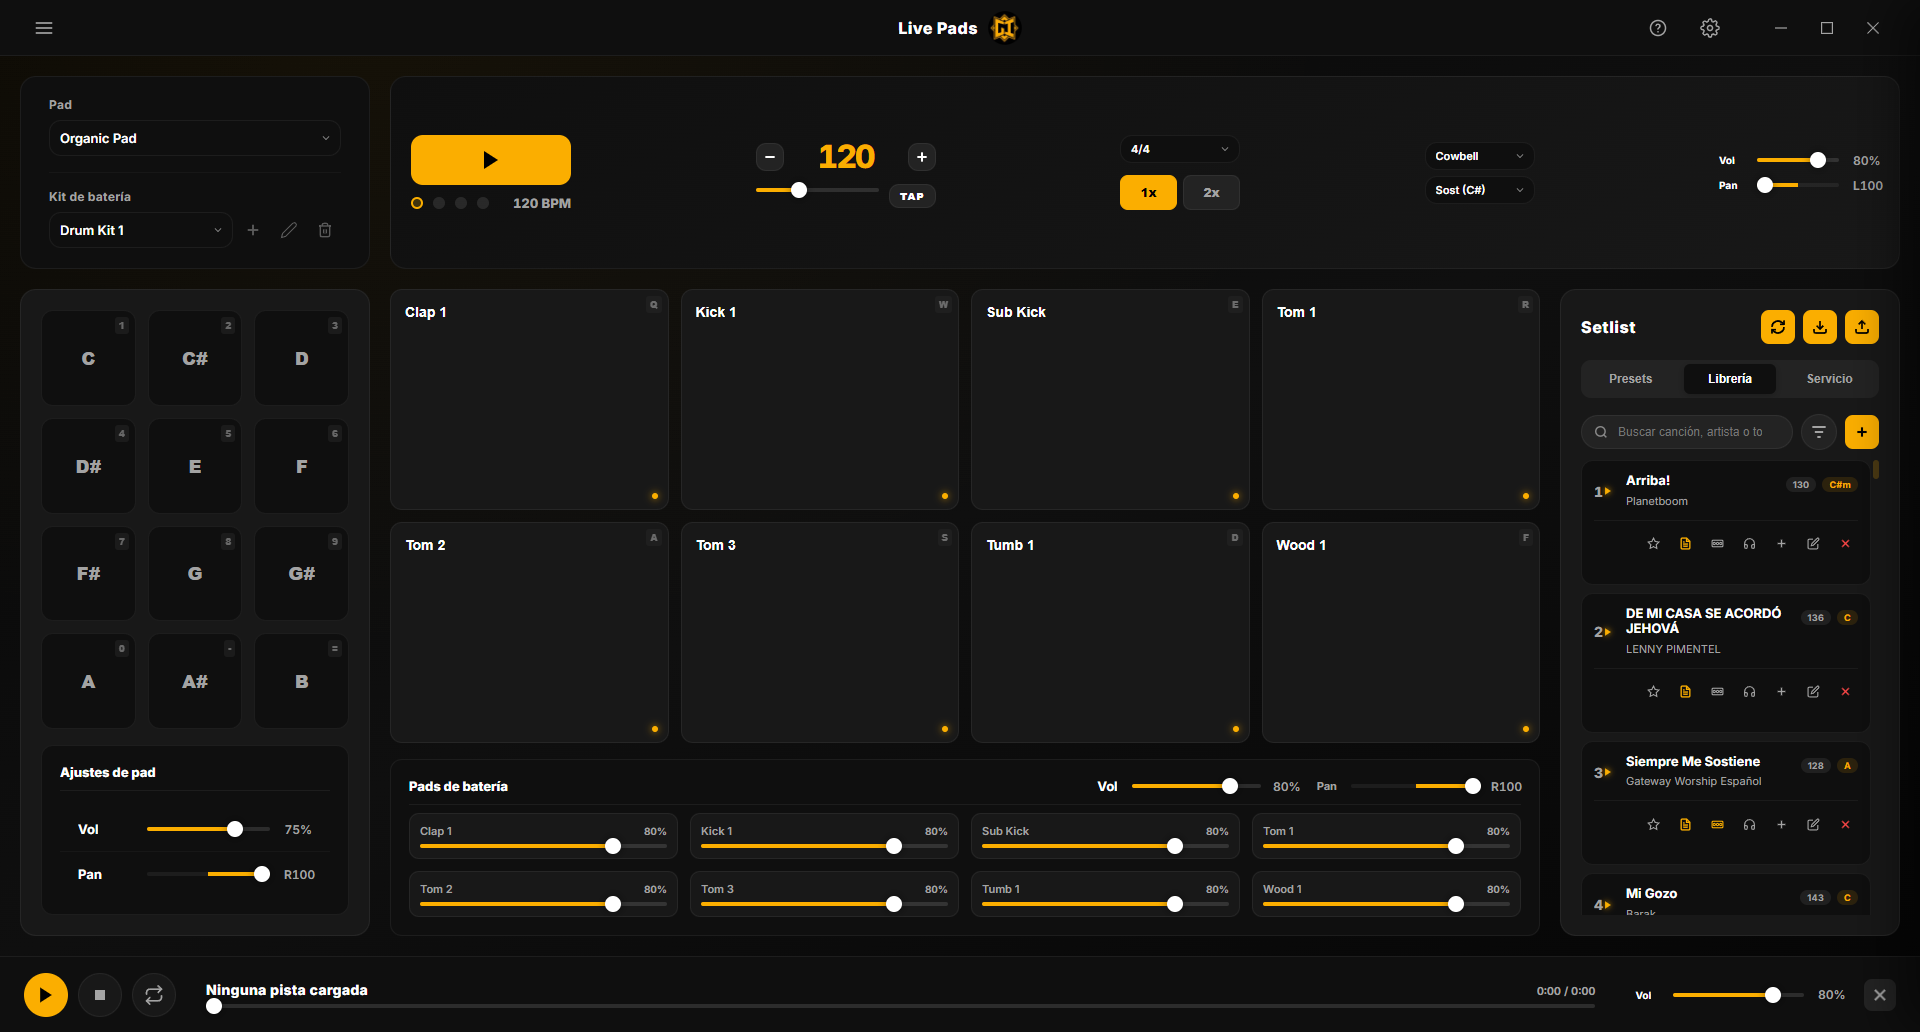
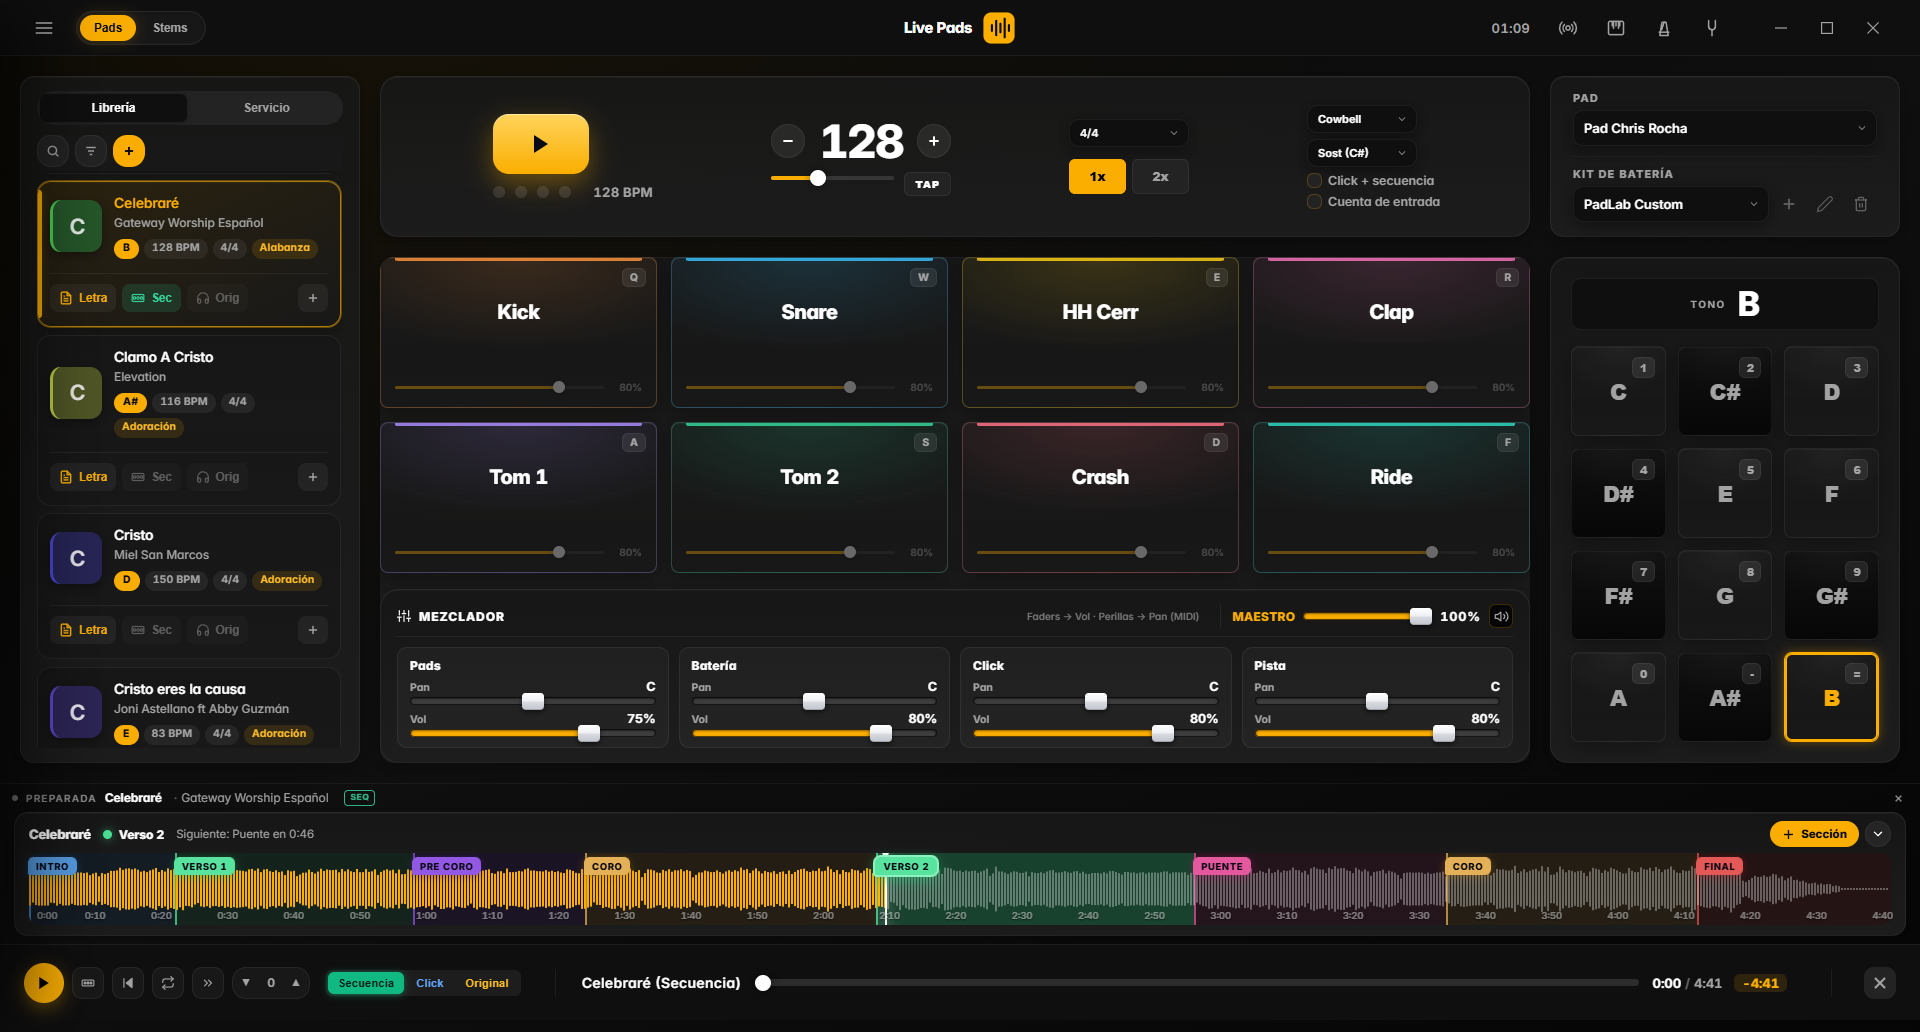
Adaptable a cualquier monitor (Stems compacto por container query), onda siempre visible con estado vacío, roles teclas/guitarra y landing actualizada
- Stems: deck en filas que se reorganizan solas; panel de canciones y consola se contraen en ventanas pequeñas (sin fijar la preferencia del usuario).
- Pads: metrónomo en 2 filas en anchos medianos; onda visible siempre (estado vacío con instrucción); la onda no aparece en Stems.
- Stems: roles Teclas y Guitarra (barra Practicar: «Sin teclas», «Solo guitarra»…).
- Landing: 4 tarjetas nuevas y capturas nuevas (Pads con onda y secciones, Stems con Practicar).

diff --git a/src/css/modules/_redesign5.css b/src/css/modules/_redesign5.css
@@ -80,3 +80,78 @@
   .stems-tb-left { flex: 1 1 100%; flex-wrap: wrap; row-gap: 6px; }
   .stems-tb-mid { margin-left: 0; flex: 1 1 auto; justify-content: center; }
 }
+
+/* ── Onda: estado vacío (siempre visible, una sola línea) ───────── */
+.sw-empty { display: none; align-items: center; gap: 9px; font-size: 12px; color: var(--text-muted); }
+.sw-empty svg { color: var(--accent); flex: 0 0 auto; }
+.sw-empty b { color: var(--text); font-weight: 800; }
+#seq-wave.is-empty { padding: 8px 14px; opacity: .85; }
+#seq-wave.is-empty .sw-stage, #seq-wave.is-empty .sw-actions, #seq-wave.is-empty .sw-title,
+#seq-wave.is-empty .sw-now, #seq-wave.is-empty .sw-next { display: none; }
+#seq-wave.is-empty .sw-empty { display: inline-flex; }
+
+/* ── Stems · deck: el transporte pasa a otra fila si no cabe (nunca se monta) ── */
+.stems-topbar { flex-wrap: wrap; row-gap: 8px; }
+.stems-tb-left { flex: 1 1 620px; min-width: 0; flex-wrap: wrap; row-gap: 6px; }
+.stems-tb-mid { flex: 0 0 auto; margin-left: auto; }
+
+/* ═══════════════════════════════════════════════════════════════════
+   STEMS en pantallas pequeñas: el deck se adapta al ANCHO REAL del área
+   (container query), aprovechando cada píxel sin montar controles.
+   ═══════════════════════════════════════════════════════════════════ */
+.stems-main { container-type: inline-size; container-name: stems; }
+
+@container stems (max-width: 1180px) {
+  .stems-topbar { padding: 8px 10px; gap: 8px; }
+  .stems-tb-left { flex: 1 1 auto; gap: 6px; }
+  .stems-tb-left .stems-field { padding: 0 8px; height: 38px; gap: 6px; }
+  .stems-tb-left .stems-field > label { font-size: 9px; letter-spacing: .05em; }
+  .stems-tb-left .stems-field--select select { min-width: 0; }
+  .stems-tb-mid { padding: 4px 12px 4px 6px; min-height: 48px; gap: 4px; }
+  .stems-tb-mid .stems-tb-btn { width: 32px; height: 32px; }
+  .stems-tb-mid .stems-tb-btn--play { width: 40px; height: 40px; margin: 0 2px; }
+  .stems-tb-time { font-size: 14px; min-width: 76px; }
+  .stems-tb-mid .stems-readout { display: none; }
+  .stems-actions--unified { padding: 6px 10px 8px; gap: 6px 8px; }
+  .stems-actions-primary { gap: 4px; padding: 3px; }
+  .stems-project-name { width: 130px; flex-basis: 130px; font-size: 13px; }
+  .stems-tools-label { display: none; }
+  .stems-tools-group { padding: 3px 4px; gap: 4px; }
+  .stems-btn { height: 30px; padding-left: 9px; padding-right: 9px; }
+  .stems-tb-right { margin-left: 0; gap: 6px; }
+  .stems-quickmix { padding: 6px 2px; gap: 5px; }
+  .stems-quickmix button { height: 26px; padding: 0 10px; font-size: 11.5px; }
+  .stems-quickmix-label { display: none; }
+}
+@container stems (max-width: 860px) {
+  .stems-tb-left .stems-field--pitch > label, .stems-tb-left .stems-field--select > label { display: none; }
+  .stems-tb-left .stems-bpm-detect { padding: 0 8px; }
+  .stems-tb-time #stems-tb-total, .stems-tb-time-sep { display: none; }
+  .stems-project-name { width: 96px; flex-basis: 96px; }
+  .stems-zoomctl .stems-zoom-fit { display: none; }
+  .stems-zoom-readout { display: none; }
+  .stems-btn--primary svg + * { }
+}
+
+/* ── Pads en anchos medianos: opciones del metrónomo en 2 columnas ── */
+@media (max-width: 1300px) {
+  /* El metrónomo pasa a 2 filas: [play · BPM] arriba, [compás · opciones] abajo. */
+  #panel-metro { display: grid; grid-template-columns: auto minmax(0, 1fr); grid-template-areas: "play bpm" "compas sounds"; align-items: center; gap: 8px 16px; }
+  #panel-metro .hm-play { grid-area: play; }
+  #panel-metro .hm-bpm { grid-area: bpm; min-width: 0; }
+  #panel-metro .hm-compas { grid-area: compas; display: flex; flex-direction: row; align-items: center; gap: 8px; }
+  #panel-metro .hm-section--sounds { grid-area: sounds; display: grid; grid-template-columns: 1fr 1fr; gap: 4px 8px; align-items: center; min-width: 0; }
+  #panel-metro .hm-section--sounds .hm-clickseq { font-size: 10.5px; line-height: 1.15; }
+  #panel-metro .hm-section--sounds .metro-dropdown { min-width: 0; width: 100%; }
+  #panel-metro .metro-mult-row { display: flex; gap: 4px; }
+}
+@media (max-width: 1300px) and (max-height: 720px) {
+  .key-indicator { display: none !important; }
+  #panel-keys { padding: 8px; }
+  .key-grid { gap: 6px; grid-auto-rows: minmax(0, 1fr); }
+  .key-btn { min-height: 0; }
+}
+
+/* La onda de Pads no existe en Stems (su reproductor es otro). */
+body:has(#workspace-stems:not(.hidden)) #seq-wave { display: none !important; }
+@media (max-width: 1300px) { #panel-metro .hm-compas .metro-sig-select { min-width: 68px; width: 68px; } }

diff --git a/docs/index.html b/docs/index.html
@@ -130,6 +130,38 @@
         <p>Separa cualquier canción en <b>voz · batería · bajo · otros</b> con un clic — 100% local, sin nube ni Python. Usa la GPU si está disponible (con fallback a CPU), guarda los stems en MP3 y los mezclas en una línea de tiempo multipista.</p>
       </article>
 
+      <article class="feature-card feature-card--highlight">
+        <div class="feature-icon">
+          <svg viewBox="0 0 24 24" stroke="currentColor" stroke-width="2" fill="none" stroke-linecap="round" stroke-linejoin="round" width="22" height="22"><line x1="5" y1="9" x2="5" y2="15"/><line x1="9" y1="5" x2="9" y2="19"/><line x1="13" y1="8" x2="13" y2="16"/><line x1="17" y1="4" x2="17" y2="20"/><line x1="21" y1="10" x2="21" y2="14"/></svg>
+        </div>
+        <h3>Onda con secciones en Pads <span class="feature-tag">Nuevo</span></h3>
+        <p>Ve la forma de onda de la secuencia con sus <b>secciones de color</b> (Intro, Verso, Coro, Puente…), por dónde va la pista y <b>qué sigue con cuenta atrás</b>. Haz clic para saltar, arrastra un nombre para moverlo, añade secciones con un clic. Se guardan con la canción y se sincronizan con tu equipo.</p>
+      </article>
+
+      <article class="feature-card feature-card--highlight">
+        <div class="feature-icon">
+          <svg viewBox="0 0 24 24" stroke="currentColor" stroke-width="2" fill="none" stroke-linecap="round" stroke-linejoin="round" width="22" height="22"><rect x="3" y="4" width="18" height="4" rx="1"/><rect x="3" y="10" width="18" height="4" rx="1"/><rect x="3" y="16" width="18" height="4" rx="1"/></svg>
+        </div>
+        <h3>Pistas por canción para practicar <span class="feature-tag">Nuevo</span></h3>
+        <p>Guarda <b>voz, batería, bajo, teclas, guitarra…</b> por separado en cada canción. Cada músico carga solo lo que necesita y practica con la barra <b>Practicar</b>: «Sin batería», «Solo voces», «Sin teclas»… en un clic.</p>
+      </article>
+
+      <article class="feature-card">
+        <div class="feature-icon">
+          <svg viewBox="0 0 24 24" stroke="currentColor" stroke-width="2" fill="none" stroke-linecap="round" stroke-linejoin="round" width="22" height="22"><path d="M21 15v4a2 2 0 0 1-2 2H5a2 2 0 0 1-2-2v-4"/><polyline points="7 10 12 15 17 10"/><line x1="12" y1="15" x2="12" y2="3"/></svg>
+        </div>
+        <h3>Descarga completa y MP3 automático <span class="feature-tag">Nuevo</span></h3>
+        <p>Baja <b>todas las pistas, la secuencia y el original</b> de una canción en un solo ZIP. Los archivos pesados (<b>WAV, AIFF, FLAC</b>) se convierten a MP3 al subirlos: la biblioteca y la nube pesan hasta 85 % menos.</p>
+      </article>
+
+      <article class="feature-card">
+        <div class="feature-icon">
+          <svg viewBox="0 0 24 24" stroke="currentColor" stroke-width="2" fill="none" stroke-linecap="round" stroke-linejoin="round" width="22" height="22"><rect x="2" y="4" width="20" height="14" rx="2"/><line x1="8" y1="21" x2="16" y2="21"/><line x1="12" y1="18" x2="12" y2="21"/></svg>
+        </div>
+        <h3>Se ve bien en cualquier monitor <span class="feature-tag">Nuevo</span></h3>
+        <p>Interfaz rediseñada y probada de <b>1024×600 a 2560×1440</b>: los pads, las teclas y el mezclador nunca se aplastan, el texto no se corta y el deck de Stems se reorganiza solo en pantallas pequeñas.</p>
+      </article>
+
       <article class="feature-card">
         <div class="feature-icon">
           <svg viewBox="0 0 24 24" stroke="currentColor" stroke-width="2" fill="none" width="22" height="22"><circle cx="12" cy="12" r="9"/><line x1="12" y1="5" x2="12" y2="12"/><line x1="12" y1="12" x2="16" y2="14"/></svg>

diff --git a/src/js/stems/workspace.js b/src/js/stems/workspace.js
@@ -3268,7 +3268,7 @@ function selectAllTracks() {
 // Contrae/expande la consola para liberar alto y ver más pistas del timeline.
 // El estado se recuerda entre sesiones (localStorage).
 const CONSOLE_COLLAPSE_KEY = 'stems-console-collapsed';
-function setConsoleCollapsed(collapsed) {
+function setConsoleCollapsed(collapsed, persist = true) {
   const section = document.getElementById('stems-console');
   if (!section) return;
   section.classList.toggle('is-collapsed', collapsed);
@@ -3280,7 +3280,7 @@ function setConsoleCollapsed(collapsed) {
     toggle.title = collapsed ? 'Expandir consola' : 'Contraer consola';
     toggle.setAttribute('aria-label', toggle.title);
   }
-  try { localStorage.setItem(CONSOLE_COLLAPSE_KEY, collapsed ? '1' : '0'); } catch {}
+  if (persist) { try { localStorage.setItem(CONSOLE_COLLAPSE_KEY, collapsed ? '1' : '0'); } catch {} }
   // El alto del área de pistas cambió: redibuja la regla/timeline.
   refreshTimelineWidth();
   // Al expandir, los faders recuperan alto: repíntalos por si alguno se creó
@@ -3290,9 +3290,12 @@ function setConsoleCollapsed(collapsed) {
 function wireConsoleCollapse(root) {
   const toggle = root.querySelector('#stems-console-toggle');
   if (!toggle) return;
-  let collapsed = false;
-  try { collapsed = localStorage.getItem(CONSOLE_COLLAPSE_KEY) === '1'; } catch {}
-  setConsoleCollapsed(collapsed);
+  // Sin preferencia guardada, en ventanas bajas la consola arranca contraída
+  // (para dejarle alto al timeline) y NO se guarda como elección del usuario.
+  let pref = null;
+  try { pref = localStorage.getItem(CONSOLE_COLLAPSE_KEY); } catch {}
+  const auto = pref === null && window.innerHeight < 700;
+  setConsoleCollapsed(pref === '1' || auto, !auto);
   toggle.addEventListener('click', () => {
     const section = document.getElementById('stems-console');
     setConsoleCollapsed(!section?.classList.contains('is-collapsed'));
@@ -5557,7 +5560,12 @@ function bindSetlistPanel() {
 
   if (searchEl) searchEl.oninput = () => renderSetlistPanel(searchEl.value);
   // Estado colapsado recordado entre sesiones (igual que la consola).
-  try { if (localStorage.getItem('stems-setlist-collapsed') === '1') panel.classList.add('collapsed'); } catch {}
+  // Panel de canciones: recordamos la elección del usuario; si nunca eligió, en
+  // ventanas angostas arranca contraído para dejarle el ancho al deck y al timeline.
+  try {
+    const pref = localStorage.getItem('stems-setlist-collapsed');
+    if (pref === '1' || (pref === null && window.innerWidth < 1280)) panel.classList.add('collapsed');
+  } catch {}
   const toggleCollapsed = () => {
     const collapsed = panel.classList.toggle('collapsed');
     try { localStorage.setItem('stems-setlist-collapsed', collapsed ? '1' : '0'); } catch {}

diff --git a/src/js/stems/stemRole.js b/src/js/stems/stemRole.js
@@ -7,17 +7,19 @@ const STEM_ROLE_PATTERNS = [
   ['vocals', /\b(vocals?|voces|voz|voice|lead\s*vox|vox)\b/i],
   ['drums',  /\b(drums?|bater[ií]a|percusi[oó]n|percussion)\b/i],
   ['bass',   /\b(bass|bajo)\b/i],
+  ['keys',   /\b(keys?|teclas?|teclado|keyboards?|piano|synths?|sintetizador|rhodes|organ|[oó]rgano)\b/i],
+  ['guitar', /\b(guitars?|guitarra|ac[uú]stica|acoustic|el[eé]ctrica|electric)\b/i],
   ['other',  /\b(other|otros|instrumental|music|m[uú]sica|accompaniment)\b/i],
   ['click',  /\b(click|metr[oó]nomo|metronome)\b/i],
   ['guide',  /\b(guide|gu[ií]a|cues?)\b/i],
 ];
 
-export const STEM_ROLE_COLORS = { vocals: '#ec4899', drums: '#f97316', bass: '#3b82f6', other: '#a855f7' };
+export const STEM_ROLE_COLORS = { vocals: '#ec4899', drums: '#f97316', bass: '#3b82f6', other: '#a855f7', keys: '#eab308', guitar: '#22c55e' };
 
 // Badge shown on rows/strips. Used in row, strip and console alike.
 export const STEM_KIND_BADGE = {
   click: 'CLICK', guide: 'GUÍA', midi: 'MIDI',
-  vocals: 'VOCES', drums: 'BATERÍA', bass: 'BAJO', other: 'OTROS', instrumental: 'INSTRUMENTAL',
+  vocals: 'VOCES', drums: 'BATERÍA', bass: 'BAJO', keys: 'TECLAS', guitar: 'GUITARRA', other: 'OTROS', instrumental: 'INSTRUMENTAL',
 };
 
 export function detectStemRole(fileName) {

diff --git a/src/js/ui/seqWaveform.js b/src/js/ui/seqWaveform.js
@@ -91,7 +91,7 @@ export function initSeqWaveform() {
 
 function onLoaded({ audio: a, song: s }) {
   audio = a; song = s || null; peaks = null; duration = 0;
-  root.classList.remove('hidden'); root.classList.add('is-loading');
+  root.classList.remove('hidden', 'is-empty'); root.classList.add('is-loading');
   titleEl.textContent = song ? song.title : '';
   const ready = () => {
     if (audio !== a || !a.buffer) return;
@@ -109,7 +109,8 @@ function onLoaded({ audio: a, song: s }) {
 function onCleared() {
   audio = null; song = null; peaks = null; duration = 0;
   cancelAnimationFrame(raf); raf = 0;
-  root.classList.add('hidden');
+  root.classList.add('is-empty'); root.classList.remove('is-loading');
+  titleEl.textContent = ''; nowEl.textContent = ''; nextEl.textContent = '';
 }
 
 // ── Dibujo ─────────────────────────────────────────────────────────────────

diff --git a/src/index.html b/src/index.html
@@ -467,9 +467,10 @@
     </div>
 
     <!-- ═══ ONDA + SECCIONES de la pista en reproducción ═══ -->
-    <section id="seq-wave" class="hidden" aria-label="Forma de onda y secciones de la pista">
+    <section id="seq-wave" class="is-empty" aria-label="Forma de onda y secciones de la pista">
       <header class="sw-head">
         <span class="sw-title"></span>
+        <span class="sw-empty"><svg viewBox="0 0 24 24" width="15" height="15" fill="none" stroke="currentColor" stroke-width="2.2" stroke-linecap="round"><line x1="5" y1="9" x2="5" y2="15"/><line x1="9" y1="5" x2="9" y2="19"/><line x1="13" y1="8" x2="13" y2="16"/><line x1="17" y1="4" x2="17" y2="20"/><line x1="21" y1="10" x2="21" y2="14"/></svg>Onda y secciones · elige una canción y pulsa <b>Sec</b> u <b>Orig</b></span>
         <span class="sw-now"></span>
         <span class="sw-next"></span>
         <div class="sw-actions">
